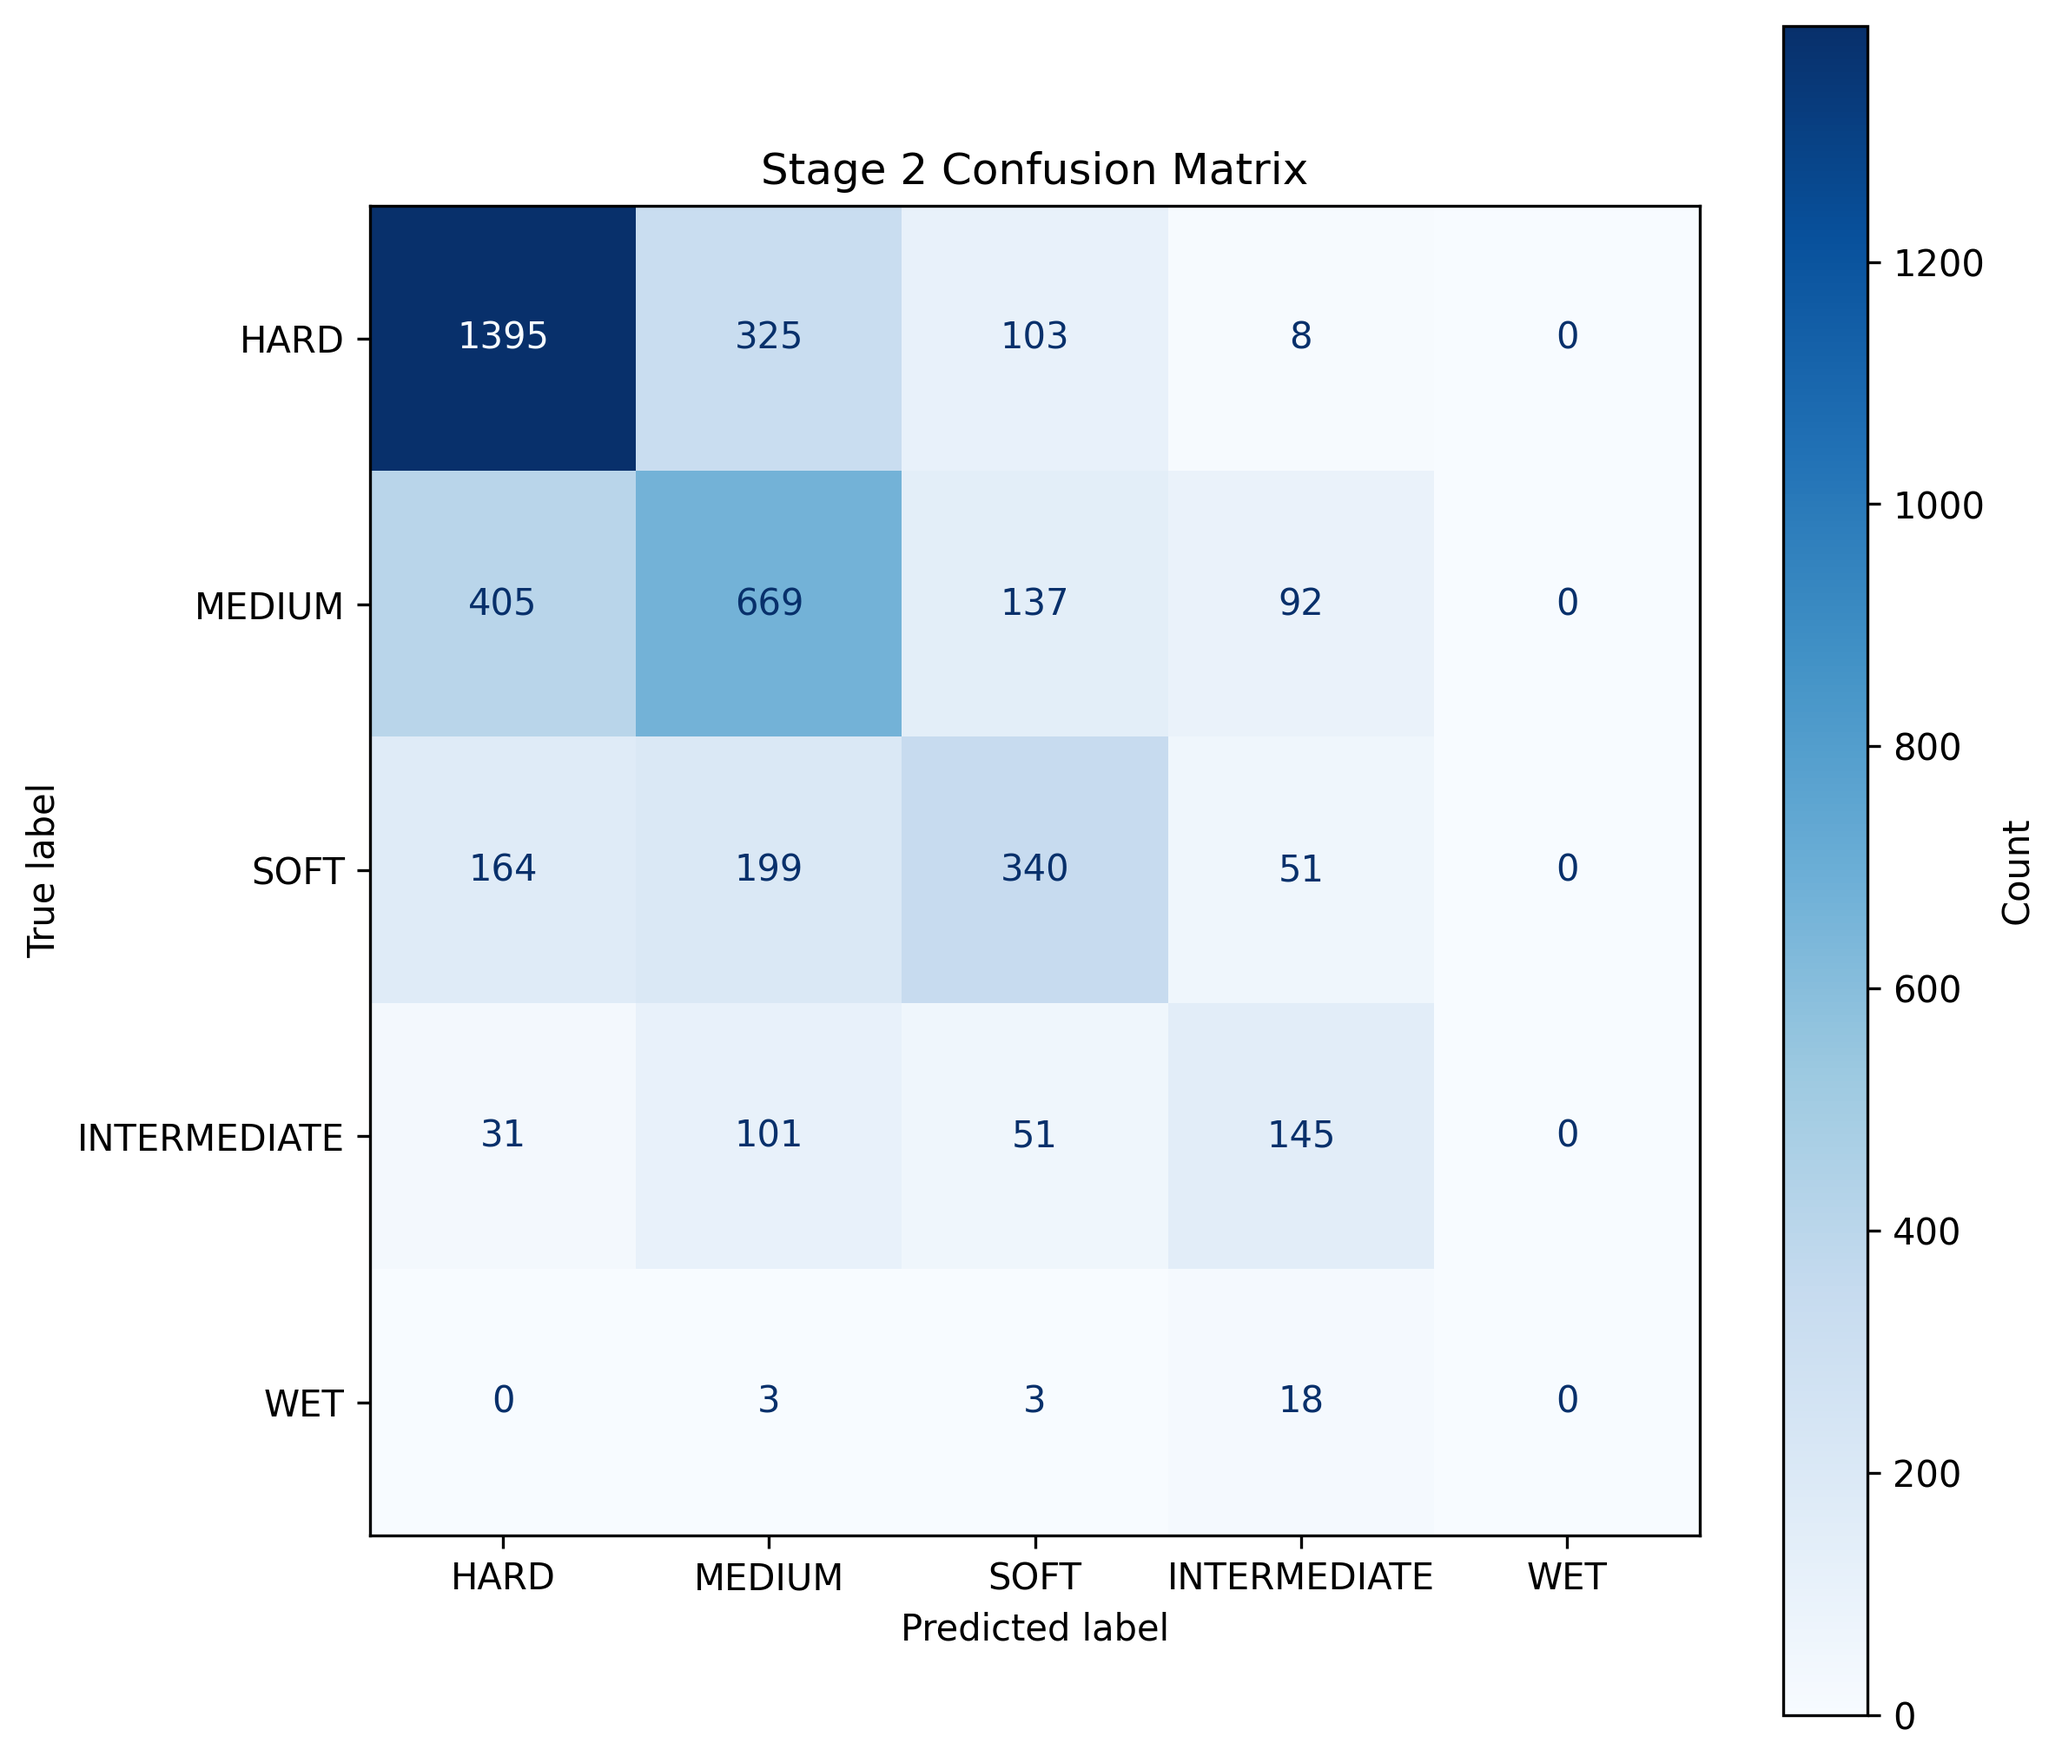
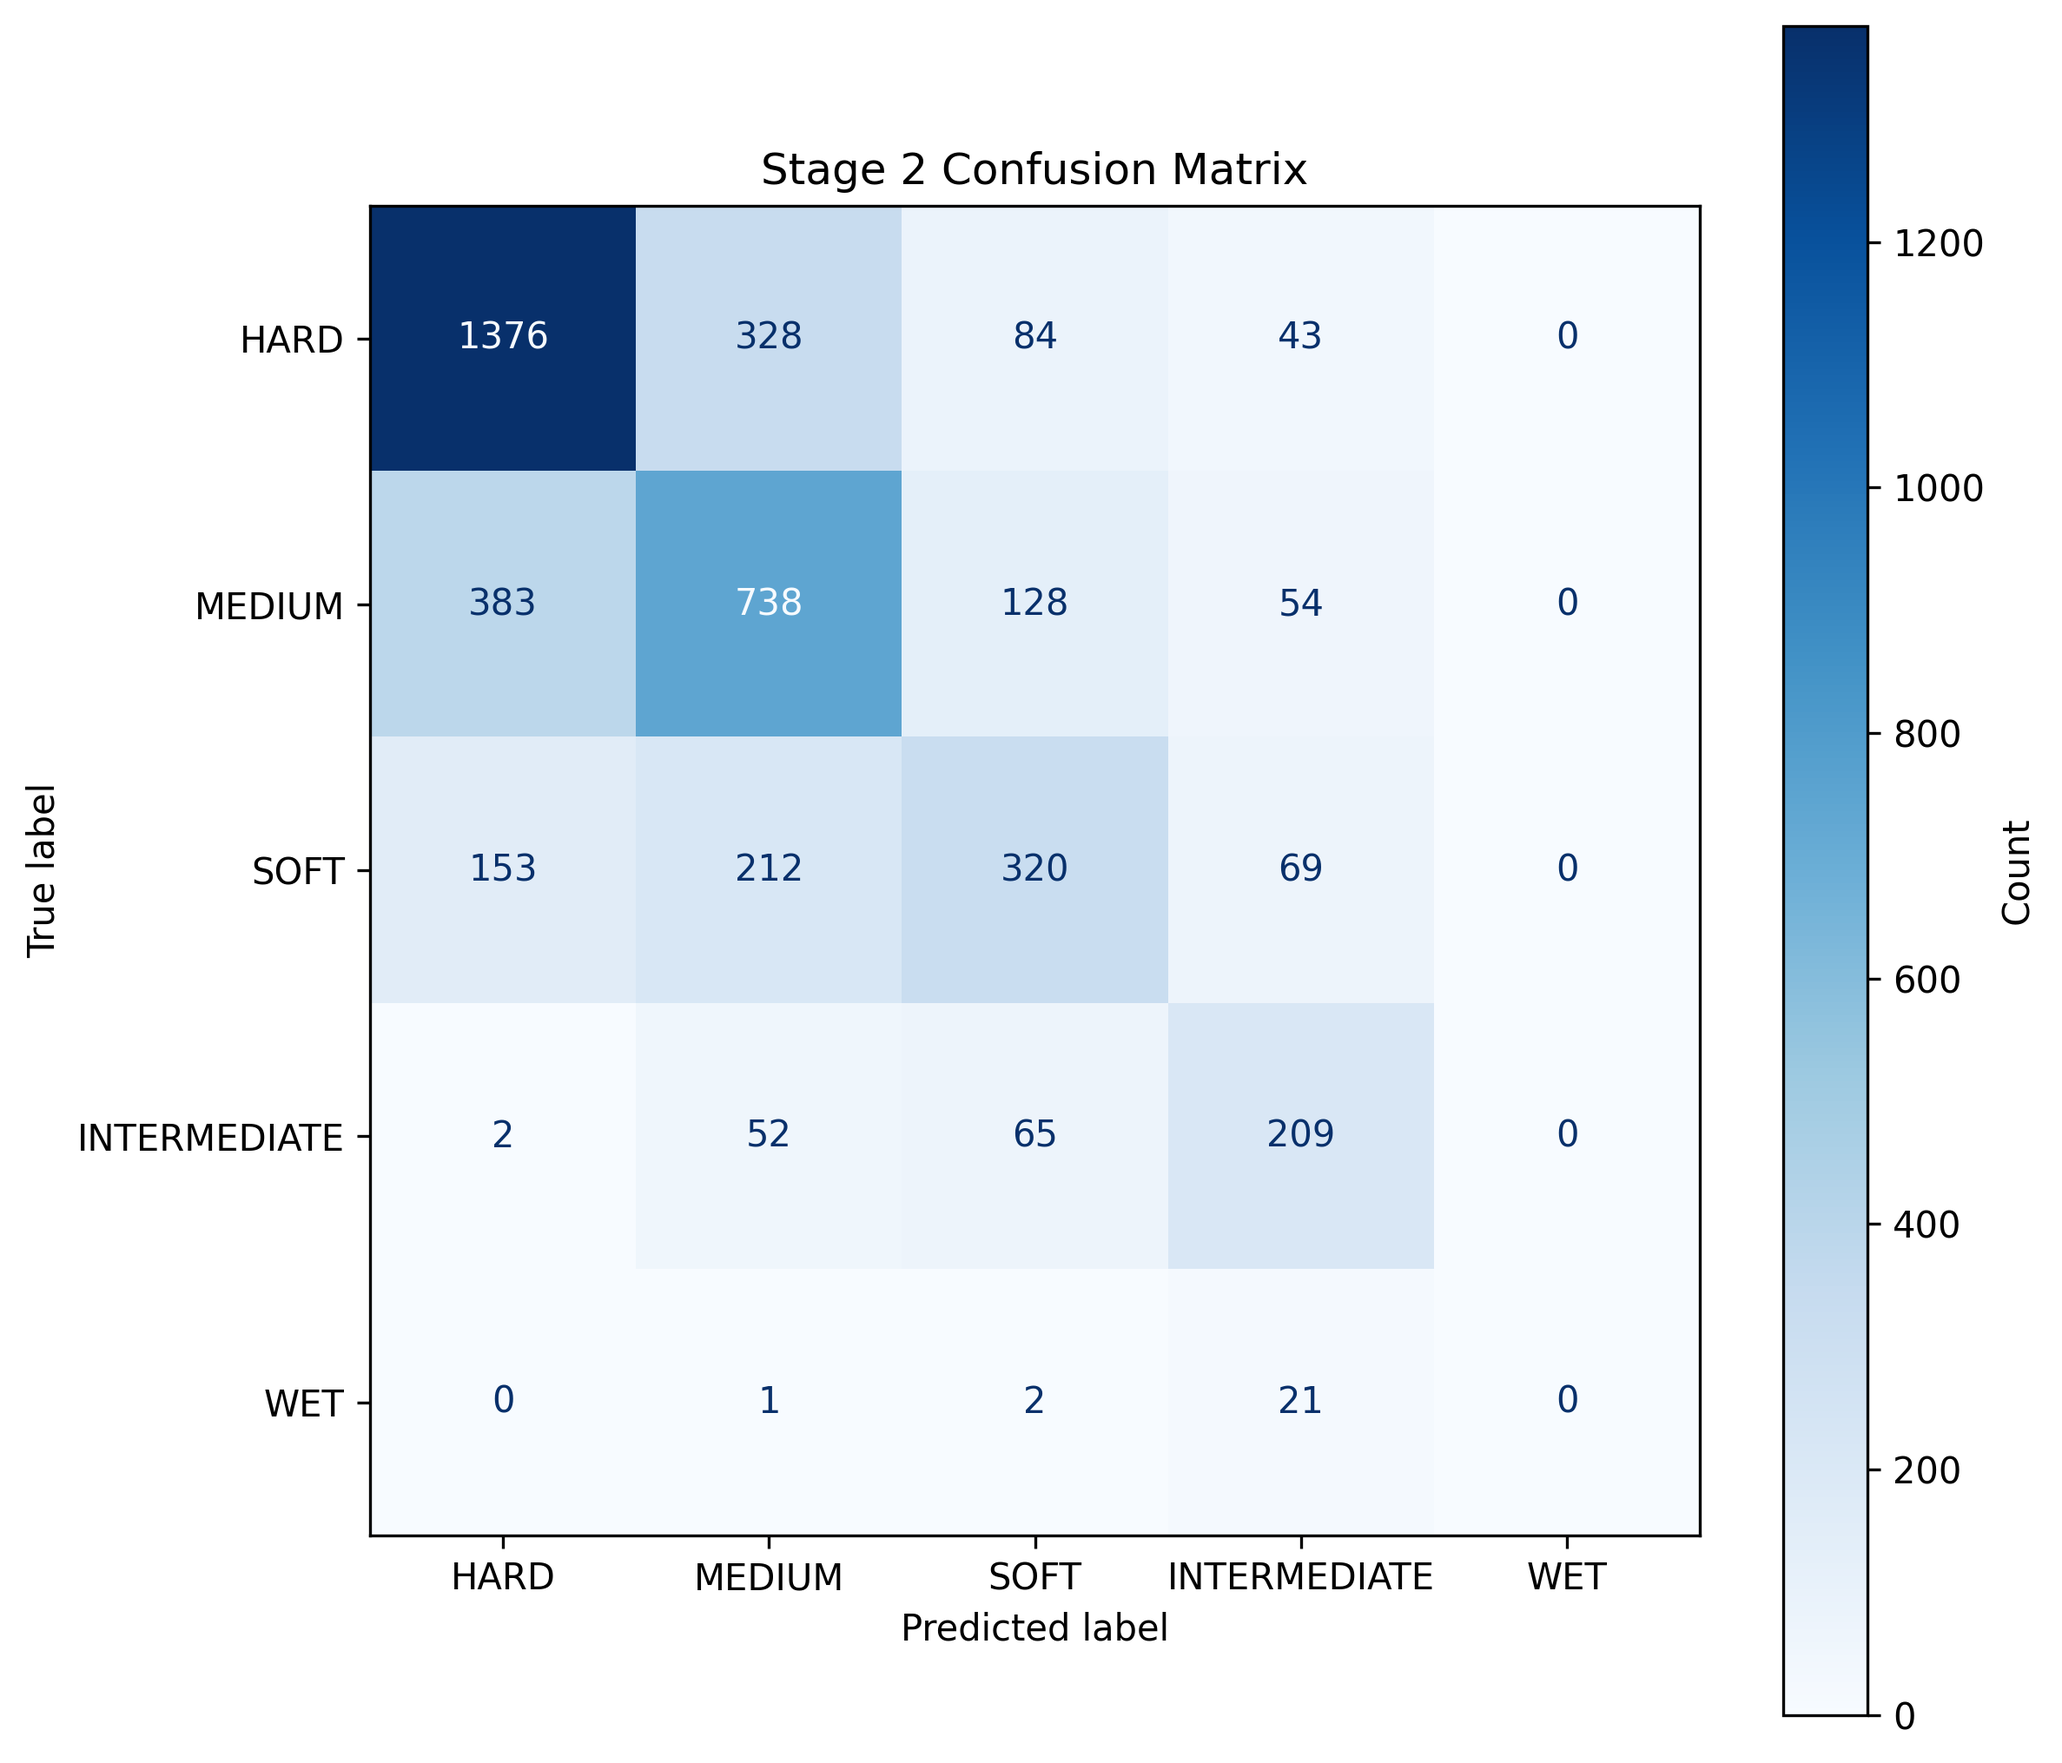
finished final report END IS IN SIGHT

diff --git a/src/utils/base_ablation_eval.py b/src/utils/base_ablation_eval.py
@@ -11,15 +11,12 @@ Outputs:
 """
 
 from __future__ import annotations
-
 import argparse
 from pathlib import Path
-from typing import Any, Dict, List, Tuple, Optional
-
+from typing import Dict, List, Tuple, Optional
 import numpy as np
 import pandas as pd
 from sklearn.base import clone
-
 from src.data.data import (
     load_stage1_dataset,
     get_stage1_xy,
@@ -31,7 +28,6 @@ from src.data.data import (
     encode_y_compound,
     build_feature_sequences,
 )
-
 from src.data.preprocessing import make_preprocessor_for_model
 from src.models.models import (
     build_model_pipeline,
@@ -40,7 +36,6 @@ from src.models.models import (
     get_stage2_tabular_models,
     get_stage2_sequential_models,
 )
-
 from src.utils.meta_ablation_eval import (
     compute_fold_metrics_binary,
     compute_fold_metrics_multi,

diff --git a/src/utils/report_oof.py b/src/utils/report_oof.py
@@ -16,7 +16,7 @@ STAGE2_PATH = Path("runs/final_run/stage2_multiclass/artifacts/oof_predictions.c
 OUT_PATH = Path("runs/final_run/oof_slice_metrics.csv")
 
 #hardcoded decision rules
-PIT_THRESHOLD = 0.3120
+PIT_THRESHOLD = 0.264
 COMPOUND_LABELS = ["HARD", "MEDIUM", "SOFT", "INTERMEDIATE", "WET"]
 META_COLS_STAGE2 = [f"meta_proba_c{i}" for i in range(len(COMPOUND_LABELS))] #the probability columns expected in the stage 2 OOF probabilities file
 GP_COL = "race_track"
@@ -149,7 +149,7 @@ def _summarise(stage_name: str, df: pd.DataFrame, slices: dict[str, set[int]], m
         rows.append(row)
     return pd.DataFrame(rows)
 
-def main() -> None:
+def main():
     stage1 = pd.read_csv(STAGE1_PATH)
     stage2 = pd.read_csv(STAGE2_PATH)
 

diff --git a/src/training/evaluate_stack.py b/src/training/evaluate_stack.py
@@ -242,7 +242,7 @@ def run_stage1_stacking():
     (outdir / "summary.json").write_text(json.dumps(summary, indent=2))
     return summary
 
-
+def run_stage2_stacking():
     """handles the pipeline for stage 2 compound decision stacking"""
     outdir.mkdir(parents=True, exist_ok=True)
     n_classes = len(COMPOUND_CLASSES)

diff --git a/src/training/evaluate_base.py b/src/training/evaluate_base.py
@@ -80,7 +80,6 @@ def run_tabular_cv(x, y, task: str, model_name: str, outdir: Path):
     seed = 42
     n_splits = 5
     
-    
     num_cols, cat_cols = infer_feature_types(x)
     
     skf = StratifiedKFold(n_splits=n_splits, shuffle=True, random_state=seed)
